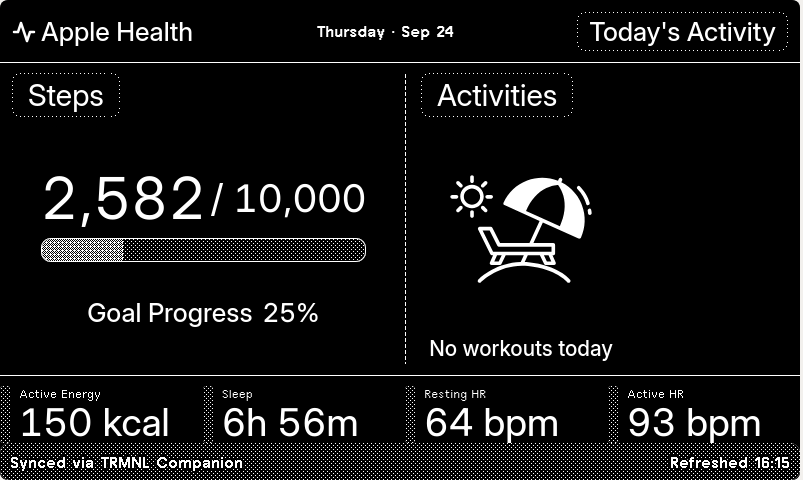
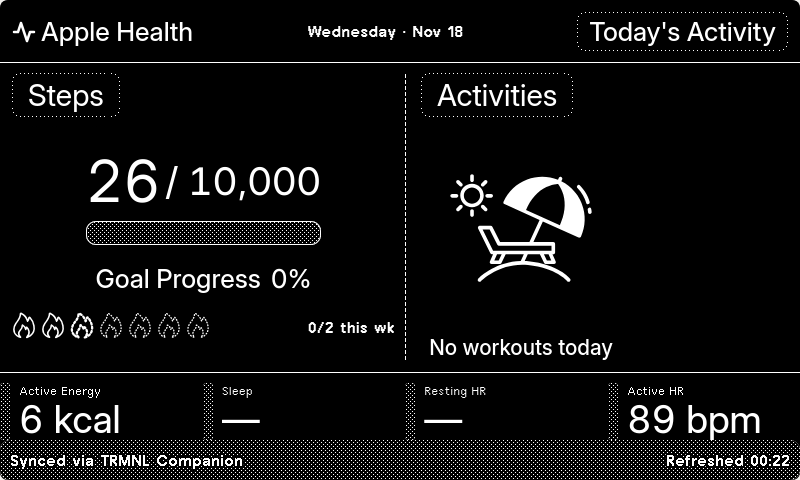
chore: docs updates (#36)

diff --git a/apple_health/README.md b/apple_health/README.md
@@ -4,9 +4,10 @@ An [Apple Health](https://www.apple.com/ios/health/) plugin for [TRMNL](https://
 
 ![full view](docs/full.png)
 
-Shown on the display: today's steps against a 10,000 goal (with a 7-day
-trend), workouts, and a bottom row of active energy, sleep, resting and
-active heart rate.
+Shown on the display: today's steps against your daily step goal (10,000 by
+default), a row of flames for this week's goal streak, workouts, and a bottom
+row of active energy, sleep, resting and active heart rate. A share of screen
+refreshes shows a Health Trends view (this week vs last week) instead.
 
 | playlist |
 | --- |
@@ -21,7 +22,32 @@ active heart rate.
 - **Strategy: webhook.** The [TRMNL Companion app](https://usetrmnl.com/companion) (iOS) reads Apple Health via HealthKit and POSTs the raw payload — `{ health: { metrics: [...], workouts: [...] } }` — to this plugin's webhook URL on each sync.
 - **`Serverless`** reduces that raw payload into the merge variables the views use: deduplicates overlapping multi-source samples (iPhone + Watch double-counting), windows everything to the user's local calendar day via `trmnl.user.utc_offset`, and computes derived stats (max heart rate during activity, resting HR from overnight samples, total active energy across background + workout streams).
 - **`Liquid Templates`** render four sizes — `full`, `half_horizontal`, `half_vertical`, `quadrant` — sharing common logic and hand-drawn monochrome icons.
-- A rolling **30-day trend history** is kept in TRMNL's per-install state store (`trmnl.state`), written each sync, for future week-over-week comparisons.
+- A rolling **history of daily totals** (about four weeks) is kept in TRMNL's per-install state store (`trmnl.state`), written each sync. It feeds the Health Trends view and the step-goal streak. A day nobody synced on is filled in by the next sync.
+
+## Settings
+
+- **Daily step goal** — steps per day the progress bar and streak count toward. Blank means 10,000. Changing it re-judges past days in the streak.
+- **Trends view percentage** — share of screen refreshes (0-100) that show the Health Trends view instead of today's dashboard. 0 never shows it, 100 always does. Blank means 25.
+- **Debug: send raw payload** — for troubleshooting only, **Off** by default. When `On`, each sync sends your raw Apple Health data (metrics and workouts, not your name or device details) to the developer's debug endpoint, where it is kept for 1 hour and then deleted. Leave it Off normally.
+
+## Step-goal streak
+
+Under the Steps card, seven flames show this calendar week (Monday to Sunday):
+
+| Flame | Meaning |
+| --- | --- |
+| Solid | goal reached |
+| Outline | a day that passed below the goal |
+| Faint outline | a day that passed with no steps recorded (no sync), counted as neither hit nor miss |
+| Bold dotted | today, goal not reached yet |
+| Thin dotted | day still to come |
+
+Beside the flames, `Streak 3d · 0/1 this wk` reads as: a 3-day streak, and 0 goal days hit out of 1 day judged so far this week. The streak counts consecutive goal days back from today (or from yesterday while today is still open). It can run back past Monday into earlier weeks, and a miss or a day with no sync ends it. When the streak is 0 that part is hidden. The half vertical view and the TRMNL X quadrant show the same line.
+
+## Sleep
+
+- Sleep belongs to the day you **wake up**: a 22:30-06:30 night is counted once, on the morning it ends, not split at midnight.
+- The Companion app sends sleep as plain time segments without sleep stages, so the plugin cannot see awake time directly. It estimates awake stretches inside the latest night from steps, active energy and heart rate (if higher than resting) and leaves them out, so the figure can differ from the Health app's Time asleep by a few minutes.
 
 ## How to Setup
 
